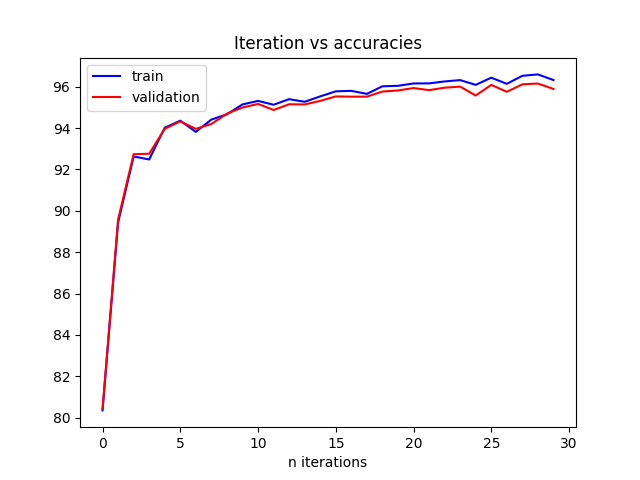
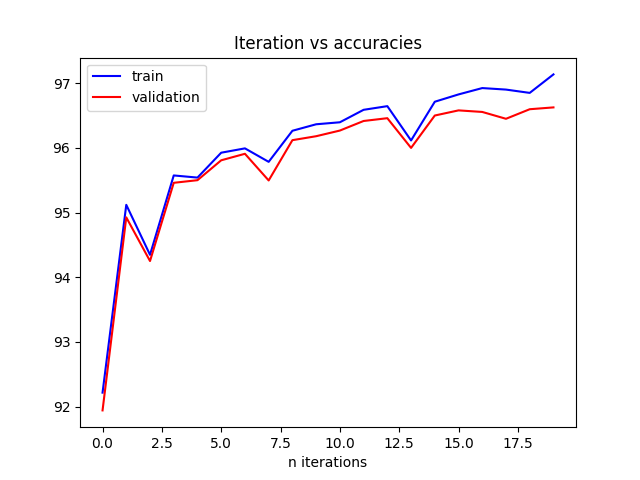
added tensorboard and some other modification in the code

diff --git a/model.py b/model.py
@@ -3,7 +3,7 @@ import torch.nn as nn
 import torchvision.transforms.functional as TF
 from torchviz import make_dot
 
-from modules import DoubleConv, Attention_block, InceptionBlock, ResNetBlock
+from modules import DoubleConv, Attention_block, InceptionBlock, ResNetBlock, DoubleConv_GN
 from cbam import CBAM
 
 
@@ -37,6 +37,68 @@ class UNET(nn.Module):
             self.ups.append(DoubleConv(feature*2, feature))
 
         self.bottleneck = DoubleConv(features[-1], features[-1]*2)
+        self.final_conv = nn.Conv2d(features[0], out_channels, kernel_size=1)
+
+    def forward(self, x):
+        skip_connections = []
+
+        for down in self.downs:
+            x = down(x)
+            skip_connections.append(x)
+            x = self.pool(x)
+
+        x = self.bottleneck(x)
+        #reversing the list of the skip connections
+        skip_connections = skip_connections[::-1]
+
+        for idx in range(0, len(self.ups), 2):
+            x = self.ups[idx](x)
+            skip_connection = skip_connections[idx//2]
+            
+            #if the resolution of the input image is not completely devisible, then it will skip the reminder
+            # and the resolution will not be equal in this case, so we are resizing it incase in they are not equal
+            if x.shape != skip_connection.shape:
+                x = TF.resize(x, size=skip_connection.shape[2:])
+
+
+            #concatenating the skip connections with x
+            concat_skip = torch.cat((skip_connection, x), dim=1)
+
+            #passing the concatenated ouptut, to the double convolutional layers
+            x = self.ups[idx+1](concat_skip)
+
+        return self.final_conv(x)
+
+class UNET_GN(nn.Module):
+    def __init__(
+            self, in_channels=3, out_channels=1, features=[64, 128, 256, 512],
+    ):
+        super(UNET_GN, self).__init__()
+        #module list for encoder layers
+        self.downs = nn.ModuleList()
+        #max pooling
+        self.pool = nn.MaxPool2d(kernel_size=2, stride=2)
+        #module list for the decoder layers
+        self.ups = nn.ModuleList()
+
+        # Down part of UNET
+        for feature in features:
+            self.downs.append(DoubleConv_GN(in_channels, feature))
+            in_channels = feature
+
+        # Up part of UNET
+        for feature in reversed(features):
+            ### up convolution
+            self.ups.append(
+                nn.ConvTranspose2d(
+                    feature*2, feature, kernel_size=2, stride=2,
+                )
+            )
+
+            ### double convolution
+            self.ups.append(DoubleConv_GN(feature*2, feature))
+
+        self.bottleneck = DoubleConv_GN(features[-1], features[-1]*2)
         self.final_conv = nn.Conv2d(features[0], out_channels, kernel_size=1)
 
     def forward(self, x):
@@ -240,6 +302,8 @@ class Inception_UNET(nn.Module):
             x = self.ups[idx+1](concat_skip)
 
         return self.final_conv(x)
+
+
 
 class Inception_Attention_UNET(nn.Module):
     def __init__(

diff --git a/train.py b/train.py
@@ -3,14 +3,16 @@ from torchvision import transforms as t
 import torch.nn as nn
 import torch.optim as optim
 import numpy as np
+from torch.utils.tensorboard import SummaryWriter
 
 
 from utils import get_loaders, Fit, check_accuracy, plot_history
-from model import UNET, Attention_UNET, Inception_UNET, Inception_Attention_UNET, ResUNET, ResUNETPlus, ResUNET_with_GN, ResUNET_with_CBAM
+from model import UNET, Attention_UNET, Inception_UNET, Inception_Attention_UNET, ResUNET, ResUNETPlus, ResUNET_with_GN, ResUNET_with_CBAM, UNET_GN
 from dataset import split_data, split_category
 #from focal_loss import FocalLoss
 from lookahead import Lookahead
 from dense_unet import DenseUNet
+
 
 import os
 os.environ["KMP_DUPLICATE_LIB_OK"]="TRUE"
@@ -18,7 +20,7 @@ os.environ["KMP_DUPLICATE_LIB_OK"]="TRUE"
 LEARNING_RATE = 1e-4
 DEVICE = "cuda:0" if torch.cuda.is_available() else "cpu"
 BATCH_SIZE = 4
-NUM_EPOCHS = 30
+NUM_EPOCHS = 20
 IMAGE_HEIGHT = 256 # 1127 originally
 IMAGE_WIDTH = 256 # 1991 originally
 TRAIN_IMG_DIR = "./train-val/train2018/"
@@ -78,12 +80,13 @@ def main():
     #loss_fn = FocalLoss()
 
     
-    print("UNET")
-    model = DenseUNet()#in_channels=3, out_channels=1)
+    print("Residual UNET")
+    writer = SummaryWriter("runs/AttentionUnet")
+    model = Attention_UNET(in_channels=3, out_channels=1)
     model.to(device=DEVICE)
     optimizer = optim.Adam(model.parameters(), lr=LEARNING_RATE,)
     #lookahead = Lookahead(optimizer, k=3, alpha=0.6) 
-    history = Fit(model=model,train_dl=train_dl, validation_dl=validation_dl, loss_fn=loss_fn, optimizer=optimizer, epochs=NUM_EPOCHS, device=DEVICE)
+    history = Fit(model=model,train_dl=train_dl, validation_dl=validation_dl, loss_fn=loss_fn, optimizer=optimizer, epochs=NUM_EPOCHS, device=DEVICE, writer=writer)
     test_accuracy, test_dicescore = check_accuracy(test_dl, model, device=DEVICE, threshold=0.5)
 
     print("\n\ntest_accuracy: ", test_accuracy)

diff --git a/modules.py b/modules.py
@@ -11,11 +11,13 @@ class DoubleConv(nn.Module):
             #first convolution
             nn.Conv2d(in_channels, out_channels, kernel_size=3, stride=1, padding=1, bias=False),
             nn.BatchNorm2d(out_channels),
+            nn.Dropout2d(0.05, inplace=True),
             nn.ReLU(inplace=True),
             
             #2nd convolution
             nn.Conv2d(out_channels, out_channels, kernel_size=3, stride=1, padding=1, bias=False),
             nn.BatchNorm2d(out_channels),
+            nn.Dropout2d(0.10, inplace=True),
             nn.ReLU(inplace=True),
             )
         
@@ -23,6 +25,25 @@ class DoubleConv(nn.Module):
     def forward(self, x):
         return self.conv(x)
 
+class DoubleConv_GN(nn.Module):
+    
+    def __init__(self, in_channels, out_channels):
+        super(DoubleConv_GN, self).__init__()
+        self.conv = nn.Sequential(
+            #first convolution
+            nn.Conv2d(in_channels, out_channels, kernel_size=3, stride=1, padding=1, bias=False),
+            nn.GroupNorm(out_channels//4, out_channels),
+            nn.ReLU(inplace=True),
+            
+            #2nd convolution
+            nn.Conv2d(out_channels, out_channels, kernel_size=3, stride=1, padding=1, bias=False),
+            nn.GroupNorm(out_channels//4, out_channels),
+            nn.ReLU(inplace=True),
+            )
+        
+        
+    def forward(self, x):
+        return self.conv(x)
 
 
 class Attention_block(nn.Module):
@@ -108,7 +129,7 @@ class InceptionBlock(nn.Module):
         concat = [self.double_conv1(x), self.double_conv2(x), self.double_conv3(x), self.double_conv4(x)]
         output = torch.cat(concat, dim=1)
 
-        return output#self.upConv(output)
+        return output #self.upConv(output)
 
 
 class ResNetBlock(nn.Module):

diff --git a/utils.py b/utils.py
@@ -135,7 +135,7 @@ def train_fn(train_dl, model, optimizer, loss_fn, device):
     return mean_loss/(len(train_dl))
 
 
-def Fit(model, train_dl, validation_dl, loss_fn, optimizer, epochs, device):
+def Fit(model, train_dl, validation_dl, loss_fn, optimizer, epochs, device, writer):
     train_accuracies = []
     validation_accuracies = []
     train_dice_scores = []
@@ -172,7 +172,17 @@ def Fit(model, train_dl, validation_dl, loss_fn, optimizer, epochs, device):
             device=device,
             threshold=0.5,
         )
-        
+
+        validation_loss_ = validation_loss(model, validation_dl, loss_fn, device)
+
+        writer.add_scalar('Training Loss', train_loss, epoch)
+        writer.add_scalar('Validation Loss', validation_loss_, epoch)
+        writer.add_scalar('Training Accuracy', train_accuracy, epoch)
+        writer.add_scalar('Validation Accuracy', validation_accuracy, epoch)
+        writer.add_scalar('Training Dice Score', train_ds, epoch)
+        writer.add_scalar('Validation Dice Score', validation_ds, epoch)
+
+
         train_accuracies.append(train_accuracy)
         validation_accuracies.append(validation_accuracy)
 
@@ -180,7 +190,7 @@ def Fit(model, train_dl, validation_dl, loss_fn, optimizer, epochs, device):
         validation_dice_scores.append(validation_ds)
 
         train_losses.append(train_loss)
-        validation_losses.append(validation_loss(model, validation_dl, loss_fn, device))
+        validation_losses.append(validation_loss_)
 
     history = {
         'model': model,

diff --git a/dataset.py b/dataset.py
@@ -63,8 +63,8 @@ def split_data(category_images, category_masks, test_train_ratio=0.7, train_vali
     test_images, test_labels = [], []
 
     for cat_images, cat_masks in zip(category_images, category_masks):
-        train_valid_images, test_images_, train_valid_labels, test_labels_ = train_test_split(cat_images, cat_masks, test_size=test_train_ratio, shuffle=True)
-        train_images_, valid_images_, train_labels_, valid_labels_ = train_test_split(train_valid_images, train_valid_labels, train_size=train_valid_ratio, shuffle=True)
+        train_valid_images, test_images_, train_valid_labels, test_labels_ = train_test_split(cat_images, cat_masks, test_size=test_train_ratio, shuffle=True, random_state=15)
+        train_images_, valid_images_, train_labels_, valid_labels_ = train_test_split(train_valid_images, train_valid_labels, train_size=train_valid_ratio, shuffle=True,random_state=30)
 
         train_images.extend(train_images_)
         train_labels.extend(train_labels_)
